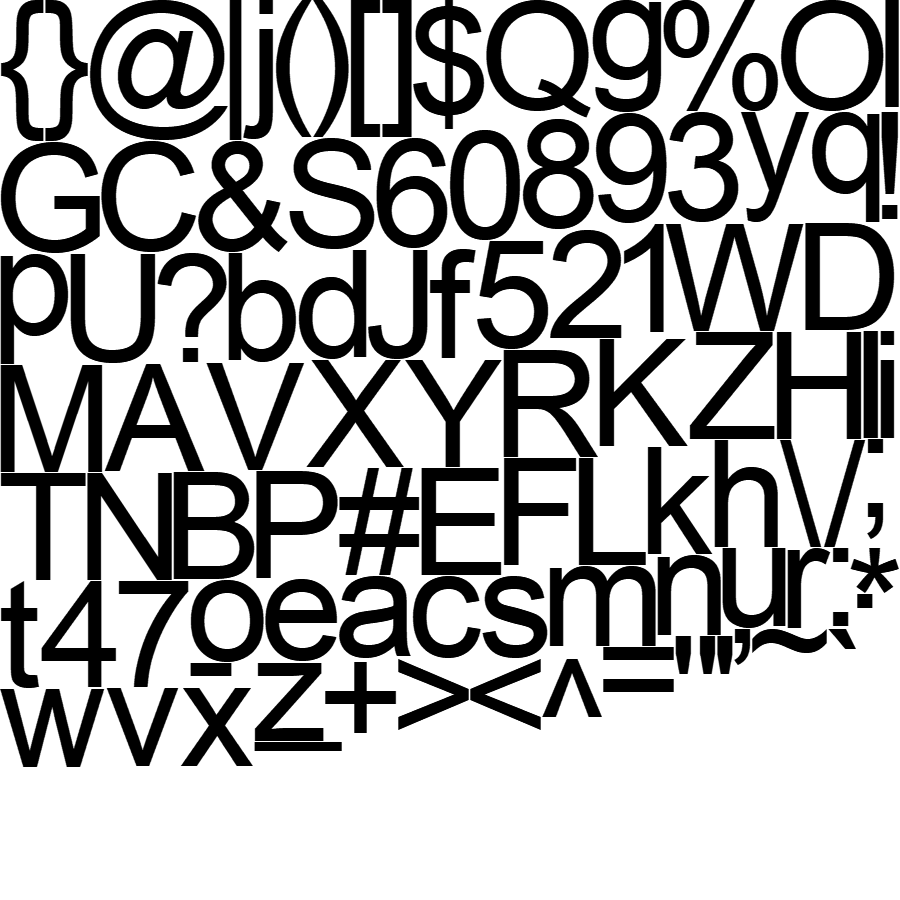
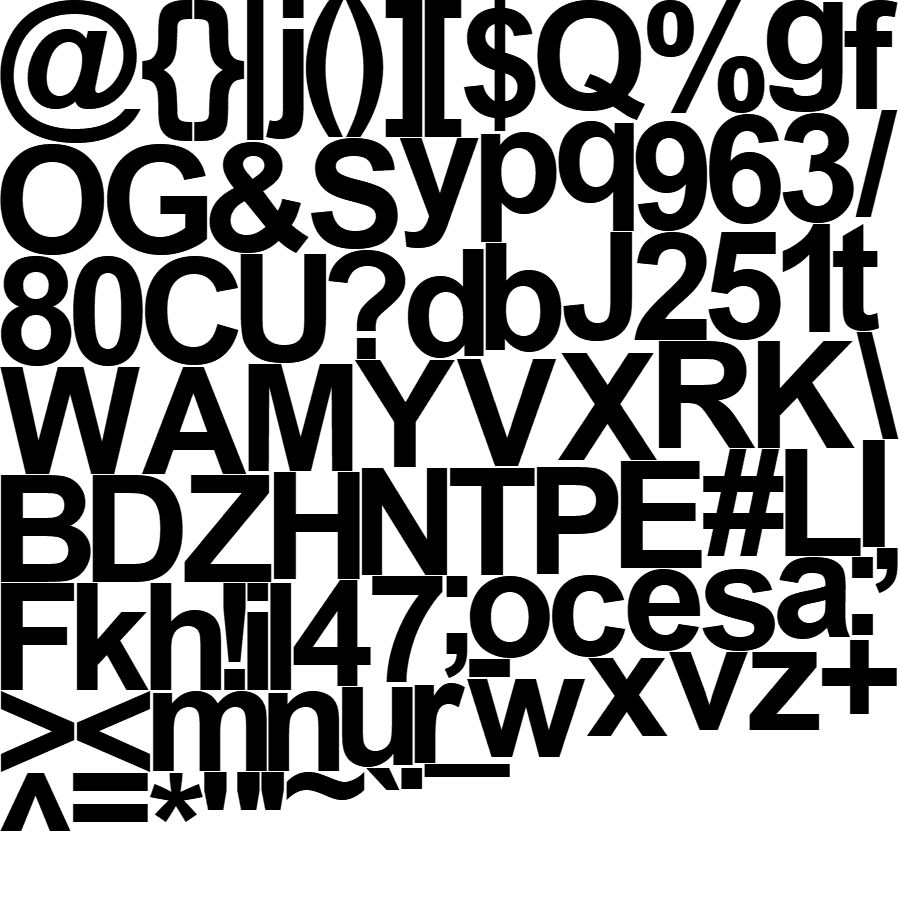
Altered construction timers
Altered the black font to be bold, moved the code placing the text into draw, rather than drawmapobjects, allowing the text to be drawn after the building is drawn, so it is visible.

Then added 2 arrays, one that stores the tile coords of the buildings under construction, and one that temporarily stores those that have finished construction. Then added a for loop that iterates through the first loop to draw the construction timers, and adds the finished ones to the found list, to be removed after, such that there is no ConcurrentModificationException.

diff --git a/core/src/main/java/io/github/universityTycoon/MainScreen.java b/core/src/main/java/io/github/universityTycoon/MainScreen.java
@@ -20,7 +20,10 @@ import io.github.universityTycoon.PlaceableObjects.MapObject;
 
 import java.time.format.DateTimeFormatter;
 import java.time.format.FormatStyle;
+import java.util.ArrayList;
+import java.util.Arrays;
 import java.util.HashMap;
+import java.util.List;
 
 import static java.lang.Math.floorDiv;
 
@@ -31,8 +34,10 @@ public class MainScreen implements Screen {
     ShapeRenderer shapeRenderer;
     Viewport viewport;
     HashMap<String, Texture> mapObjTextures; // Maintain a dict of paths -> Textures for map objects so that they are only loaded once
-
+    List<int[]> mapObjUnderConstruction;
     Texture backgroundTexture;
+    Texture pauseTexture;
+    Texture playTexture;
     Texture constructionTexture;
     Texture squareTexture;
 
@@ -56,6 +61,7 @@ public class MainScreen implements Screen {
     public MainScreen(ScreenManager main) {
         this.game = main;
         gameModel = new GameModel();
+        mapObjUnderConstruction = new ArrayList<>();
     }
 
     @Override
@@ -68,6 +74,8 @@ public class MainScreen implements Screen {
         playerInputHandler = new PlayerInputHandler();
 
         backgroundTexture = new Texture("images/map.png");
+        pauseTexture = new Texture("ui/pause.png");
+        playTexture = new Texture("ui/play.png");
         constructionTexture = new Texture("images/scaffold.png");
         squareTexture = new Texture("images/Gridsquare.png");
         mapObjTextures = new HashMap<>();
@@ -130,11 +138,17 @@ public class MainScreen implements Screen {
 
 
         batch.draw(backgroundTexture, 0, 2, 16, 7);
-
+        if (gameModel.isPaused) {
+            batch.draw(playTexture, -0.5f, 8.1f, 1.5f, 0.75f);
+        }
+        else {
+            batch.draw(pauseTexture, -0.5f, 8.1f, 1.5f, 0.75f);
+        }
         drawMapObjects();
 
         GameModel.font.draw(batch, time, 7.6f, 8.5f);
-        GameModel.font.draw(batch, dateTimeString, 0.2f, 8.8f);
+        GameModel.font.draw(batch,"Satisfaction score: " + Float.toString(gameModel.getSatisfactionScore()) + "%", 5.8f, 8.9f);
+        GameModel.smaller_font.draw(batch, dateTimeString, 0.05f, 8.95f);
 
 
 
@@ -143,11 +157,21 @@ public class MainScreen implements Screen {
         GameModel.smaller_font.draw(batch, "Cafeteria Buildings: " + gameModel.getCafeteriaBuildingCount(), 13.15f, 8.5f);
         GameModel.smaller_font.draw(batch, "Accommodation Buildings: " + gameModel.getAccommodationBuildingCount(), 13.15f, 8.3f);
 
-
-
-
-
-
+        List<int[]> found = new ArrayList<>();
+        for (int[] entry : mapObjUnderConstruction) {
+            MapObject[][] mapObjects = gameModel.getMapObjects();
+            if (mapObjects[entry[0]][entry[1]] instanceof Building building) {
+                if (building.isUnderConstruction) {
+                    float tileSizeOnScreen = viewport.getWorldWidth() / gameModel.getTilesWide();
+                    Vector2 screenPos = new Vector2((float) entry[0] * tileSizeOnScreen, viewport.getWorldHeight() - ((float) (entry[1] + 1) * tileSizeOnScreen));
+                    GameModel.black_font.draw(batch, String.format("%.0f%%", building.getConstructionPercent(gameModel.getGameTimeGMT())), screenPos.x + 0.29f, screenPos.y + 0.61f);
+                }
+                else {
+                    found.add(entry);
+                }
+            }
+        }
+        mapObjUnderConstruction.removeAll(found);
         batch.end();
         // Can't do a batch and ShapeRenderer that overlap, you have to begin and end one before beginning the other
         // So batch.end() must go before anything with ShapeRenderer
@@ -181,16 +205,17 @@ public class MainScreen implements Screen {
                 if (mapObjects[i][j] instanceof Building building) {
                     // Get the texture for the object
                     String texturePath = mapObjects[i][j].getTexturePath();
-                    if (!mapObjTextures.containsKey(texturePath))
+                    if (!mapObjTextures.containsKey(texturePath)) {
                         mapObjTextures.put(texturePath, new Texture(texturePath));
-
-                    batch.draw(mapObjTextures.get(texturePath), screenPos.x, screenPos.y, tileSizeOnScreen * building.getSize(), tileSizeOnScreen * building.getSize());
-
-                    // Construction visualisation
-                    if (building.isUnderConstruction) {
-                        batch.draw(constructionTexture, screenPos.x, screenPos.y, tileSizeOnScreen * building.getSize(), tileSizeOnScreen * building.getSize());
-                        GameModel.black_font.draw(batch, building.getConstructionPercent(gameModel.getGameTimeGMT()), screenPos.x, screenPos.y );
                     }
+                    batch.draw(mapObjTextures.get(texturePath), screenPos.x, screenPos.y, tileSizeOnScreen * building.getSize(), tileSizeOnScreen * building.getSize());
+                    if (building.isUnderConstruction) {
+                        int[] position = new int[]{i, j};
+                        mapObjUnderConstruction.add(position);
+                        batch.draw(constructionTexture, screenPos.x, screenPos.y, tileSizeOnScreen * building.getSize(), tileSizeOnScreen * building.getSize());
+                    }
+
+
                 }
             }
         }

diff --git a/core/src/main/java/io/github/universityTycoon/PlaceableObjects/Building.java b/core/src/main/java/io/github/universityTycoon/PlaceableObjects/Building.java
@@ -7,7 +7,7 @@ import java.time.LocalDateTime;
 
 public class Building extends MapObject {
 
-    public Duration constructionGameTime = Duration.ofDays(365);
+    public Duration constructionGameTime = Duration.ofDays(90);
     public LocalDateTime finishDate;
     public boolean isUnderConstruction = true;
 
@@ -52,10 +52,10 @@ public class Building extends MapObject {
         }
     }
 
-    public String getConstructionPercent(LocalDateTime currentGameTime) {
+    public float getConstructionPercent(LocalDateTime currentGameTime) {
         Duration timePassed = Duration.between(constructionStartedAt, currentGameTime);
         float percent = MathUtils.clamp((float)timePassed.getSeconds() / (float)constructionGameTime.getSeconds(), 0, 1);
-        return String.format("%.0f%%", percent * 100);
+        return percent * 100;
     }
 
     public int getSize() {

diff --git a/core/src/main/java/io/github/universityTycoon/GameModel.java b/core/src/main/java/io/github/universityTycoon/GameModel.java
@@ -32,6 +32,8 @@ public class GameModel {
     public int leisureBuildingCount;
     public int teachingBuildingCount;
 
+    public float satisfactionScore;
+
     public boolean isPaused;
     // Objects
     GameState gameState;
@@ -77,7 +79,7 @@ public class GameModel {
         smaller_font.getData().setScale(0.0015f, 0.0015f);
 
         black_font.setUseIntegerPositions(false);
-        black_font.getData().setScale(0.0015f, 0.0015f);
+        black_font.getData().setScale(0.002f, 0.002f);
     }
 
     // Everything that should be executed every frame
@@ -126,6 +128,10 @@ public class GameModel {
 
     public int getTeachingBuildingCount() {
         return teachingBuildingCount;
+    }
+
+    public float getSatisfactionScore() {
+        return satisfactionScore;
     }
 
     public GameState getGameState() {
